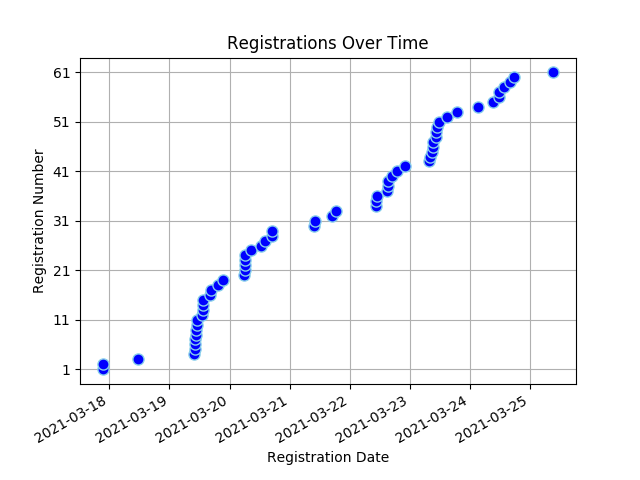
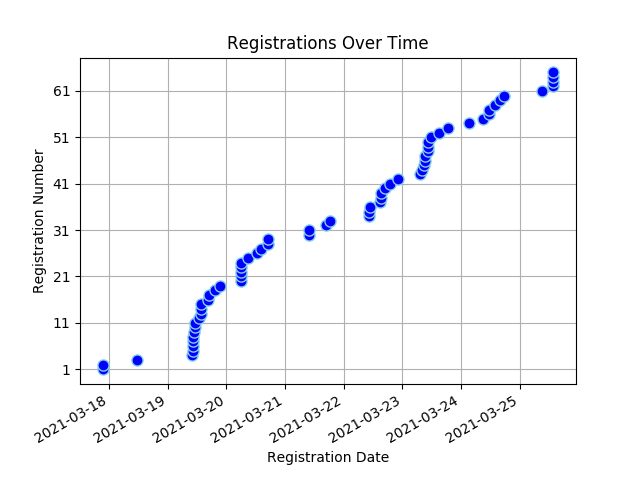
Registree stats backup on Thu 25 Mar 2021 14:51:42 SAST

diff --git a/content/registrees/_index.md b/content/registrees/_index.md
@@ -3,9 +3,9 @@ title: Registration Stats
 draft: false
 ---
 
-<ul><li><strong>Number of Registrees</strong>: 61</li>
+<ul><li><strong>Number of Registrees</strong>: 65</li>
 
-<li><strong>Number of Clubs</strong>: 35</li>
+<li><strong>Number of Clubs</strong>: 36</li>
 
 <li><strong>Club With Most Attendees</strong>: Kuilsriver (5 registrees)</li>
 </ul><h2>Registrees</h2>
@@ -33,6 +33,6 @@ draft: false
         </tr>
     </thead>
     <tbody>
-<tr><td>Valencia Beukes-Williams</td><td>Kuilsriver</td><td>410W</td></tr><tr><td>JOSE BRAGA BORGES</td><td>Malmesbury</td><td>410W</td></tr><tr><td>Herman Cadman</td><td>Stellenbosch</td><td>410W</td></tr><tr><td>Linda Ann Cannone</td><td>Fish Hoek</td><td>410W</td></tr><tr><td>Sue Charles</td><td>Tokai</td><td>410W</td></tr><tr><td>Perry Chetty</td><td>East Coast</td><td>410E</td></tr><tr><td>Esme Cornelius</td><td>Kuilsriver</td><td>410W</td></tr><tr><td>Sharon Cottle</td><td>Groote Schuur</td><td>410E</td></tr><tr><td>Peter Daniel</td><td>Gordons Bay</td><td>410W</td></tr><tr><td>Norma Daniel</td><td>Gordons Bay</td><td>410W</td></tr><tr><td>Engela de Kock</td><td>Swellendam</td><td>410W</td></tr><tr><td>Francois de Kock</td><td>Swellendam</td><td>410W</td></tr><tr><td>ANDRE DE VILLIERS</td><td>Malgas</td><td>410W</td></tr><tr><td>Desiree du Toit</td><td>Ramsgate</td><td>410E</td></tr><tr><td>Charles Flanagan</td><td>Tokai</td><td>410W</td></tr><tr><td>Jules Flanagan</td><td>Tokai</td><td>410W</td></tr><tr><td>Viv Grater</td><td>Sedgefield</td><td>410W</td></tr><tr><td>Dorothy Hess</td><td>Kuilsriver</td><td>410W</td></tr><tr><td>Wendy Higgins</td><td>Wilro Park</td><td>410E</td></tr><tr><td>Jacqui Hocking</td><td>Midrand</td><td>410E</td></tr><tr><td>Cliff Hocking</td><td>Midrand</td><td>410E</td></tr><tr><td>Liz Houston</td><td>Table View</td><td>410W</td></tr><tr><td>John Houston</td><td>Table View</td><td>410W</td></tr><tr><td>WOLSLEY Jacobson</td><td>Cape Town</td><td>410W</td></tr><tr><td>Zwaai Kruger</td><td>Sedgefield</td><td>410W</td></tr><tr><td>Bevil Lakay</td><td>Mitchells Plain</td><td>410W</td></tr><tr><td>Paula Lang</td><td>Gordons Bay</td><td>410W</td></tr><tr><td>Jimmy Lang</td><td>Gordons Bay</td><td>410W</td></tr><tr><td>Sharon Mangwende</td><td>Cape Town</td><td>410E</td></tr><tr><td>Beaulieu Mare</td><td>Benoni Lakes</td><td>410E</td></tr><tr><td>Mark Meltzer</td><td>The Wilds</td><td>410E</td></tr><tr><td>Denis Meyer</td><td>Port Shepstone</td><td>410E</td></tr><tr><td>BERNICE MILLS</td><td>Centurion</td><td>410E</td></tr><tr><td>Patrick Mills</td><td>Centurion</td><td>410E</td></tr><tr><td>Cherie Milosevich</td><td>Milnerton</td><td>410W</td></tr><tr><td>Pieter Nel</td><td>George</td><td>410W</td></tr><tr><td>Tillie Nel</td><td>Eden</td><td>410W</td></tr><tr><td>BRIAN PORTEOUS</td><td>Hibberdene</td><td>410E</td></tr><tr><td>Irene Rugheimer</td><td>Bedfordview</td><td>410E</td></tr><tr><td>Ingrid Russell</td><td>Fish Hoek</td><td>410W</td></tr><tr><td>Francis Searle</td><td>Kouga</td><td>410E</td></tr><tr><td>Gloria Searle</td><td>Kouga</td><td>410E</td></tr><tr><td>Sue Smit</td><td>Centurion</td><td>410E</td></tr><tr><td>Jeff Smith</td><td>Port Shepstone</td><td>410E</td></tr><tr><td>LYN SNYMAN</td><td>Deep South</td><td>410W</td></tr><tr><td>RORY stier</td><td>Deep South</td><td>410W</td></tr><tr><td>Patrick Strauss</td><td>Kuilsriver</td><td>410W</td></tr><tr><td>Lauryn Talbot</td><td>Benoni Lakes</td><td>410E</td></tr><tr><td>Alistair Tuckett</td><td>Roodepoort Clearwater Cyber</td><td>410E</td></tr><tr><td>HILARY LISE VAN BREDA</td><td>Cape Town</td><td>410W</td></tr><tr><td>Marina Van de Merwe</td><td>Malmesbury</td><td>410W</td></tr><tr><td>Neville Van Rensburg</td><td>Moorreesburg</td><td>410W</td></tr><tr><td>Jeannie van Wulven</td><td>Tygerberg Hills</td><td>410W</td></tr><tr><td>Alan van Wulven</td><td>Tygerberg Hills</td><td>410W</td></tr><tr><td>Deon van Wulven</td><td>Tygerberg Hills</td><td>410W</td></tr><tr><td>Kim van Wyk</td><td>North Durban</td><td>410E</td></tr><tr><td>Edith Van Wyk-Nelson</td><td>Kuilsriver</td><td>410W</td></tr><tr><td>Brian von der Decken</td><td>King William's Town</td><td>410E</td></tr><tr><td>Rochelle Vorster</td><td>Sedgefield</td><td>410W</td></tr><tr><td>Allan Watson</td><td>Sea Point</td><td>410W</td></tr><tr><td>Judy Young</td><td>Durbanville</td><td>410W</td></tr>
+<tr><td>Valencia Beukes-Williams</td><td>Kuilsriver</td><td>410W</td></tr><tr><td>JOSE BRAGA BORGES</td><td>Malmesbury</td><td>410W</td></tr><tr><td>Herman Cadman</td><td>Stellenbosch</td><td>410W</td></tr><tr><td>Linda Ann Cannone</td><td>Fish Hoek</td><td>410W</td></tr><tr><td>Sue Charles</td><td>Tokai</td><td>410W</td></tr><tr><td>Perry Chetty</td><td>East Coast</td><td>410E</td></tr><tr><td>Esme Cornelius</td><td>Kuilsriver</td><td>410W</td></tr><tr><td>Sharon Cottle</td><td>Groote Schuur</td><td>410E</td></tr><tr><td>Peter Daniel</td><td>Gordons Bay</td><td>410W</td></tr><tr><td>Norma Daniel</td><td>Gordons Bay</td><td>410W</td></tr><tr><td>Engela de Kock</td><td>Swellendam</td><td>410W</td></tr><tr><td>Francois de Kock</td><td>Swellendam</td><td>410W</td></tr><tr><td>ANDRE DE VILLIERS</td><td>Malgas</td><td>410W</td></tr><tr><td>Desiree du Toit</td><td>Ramsgate</td><td>410E</td></tr><tr><td>Roger Fahrbach</td><td>Windhoek</td><td>410W</td></tr><tr><td>Beate Fahrbach</td><td>Windhoek</td><td>410W</td></tr><tr><td>Charles Flanagan</td><td>Tokai</td><td>410W</td></tr><tr><td>Jules Flanagan</td><td>Tokai</td><td>410W</td></tr><tr><td>Viv Grater</td><td>Sedgefield</td><td>410W</td></tr><tr><td>Dorothy Hess</td><td>Kuilsriver</td><td>410W</td></tr><tr><td>Wendy Higgins</td><td>Wilro Park</td><td>410E</td></tr><tr><td>Jacqui Hocking</td><td>Midrand</td><td>410E</td></tr><tr><td>Cliff Hocking</td><td>Midrand</td><td>410E</td></tr><tr><td>Liz Houston</td><td>Table View</td><td>410W</td></tr><tr><td>John Houston</td><td>Table View</td><td>410W</td></tr><tr><td>WOLSLEY Jacobson</td><td>Cape Town</td><td>410W</td></tr><tr><td>Zwaai Kruger</td><td>Sedgefield</td><td>410W</td></tr><tr><td>Bevil Lakay</td><td>Mitchells Plain</td><td>410W</td></tr><tr><td>Paula Lang</td><td>Gordons Bay</td><td>410W</td></tr><tr><td>Jimmy Lang</td><td>Gordons Bay</td><td>410W</td></tr><tr><td>Sharon Mangwende</td><td>Cape Town</td><td>410E</td></tr><tr><td>Beaulieu Mare</td><td>Benoni Lakes</td><td>410E</td></tr><tr><td>Mark Meltzer</td><td>The Wilds</td><td>410E</td></tr><tr><td>Denis Meyer</td><td>Port Shepstone</td><td>410E</td></tr><tr><td>BERNICE MILLS</td><td>Centurion</td><td>410E</td></tr><tr><td>Patrick Mills</td><td>Centurion</td><td>410E</td></tr><tr><td>Cherie Milosevich</td><td>Milnerton</td><td>410W</td></tr><tr><td>Pieter Nel</td><td>George</td><td>410W</td></tr><tr><td>Tillie Nel</td><td>Eden</td><td>410W</td></tr><tr><td>BRIAN PORTEOUS</td><td>Hibberdene</td><td>410E</td></tr><tr><td>Irene Rugheimer</td><td>Bedfordview</td><td>410E</td></tr><tr><td>Ingrid Russell</td><td>Fish Hoek</td><td>410W</td></tr><tr><td>Francis Searle</td><td>Kouga</td><td>410E</td></tr><tr><td>Gloria Searle</td><td>Kouga</td><td>410E</td></tr><tr><td>Sue Smit</td><td>Centurion</td><td>410E</td></tr><tr><td>Jeff Smith</td><td>Port Shepstone</td><td>410E</td></tr><tr><td>LYN SNYMAN</td><td>Deep South</td><td>410W</td></tr><tr><td>RORY stier</td><td>Deep South</td><td>410W</td></tr><tr><td>Patrick Strauss</td><td>Kuilsriver</td><td>410W</td></tr><tr><td>Lauryn Talbot</td><td>Benoni Lakes</td><td>410E</td></tr><tr><td>Alistair Tuckett</td><td>Roodepoort Clearwater Cyber</td><td>410E</td></tr><tr><td>HILARY LISE VAN BREDA</td><td>Cape Town</td><td>410W</td></tr><tr><td>Marina Van de Merwe</td><td>Malmesbury</td><td>410W</td></tr><tr><td>Neville Van Rensburg</td><td>Moorreesburg</td><td>410W</td></tr><tr><td>Johan van Rensburg</td><td>Windhoek</td><td>410W</td></tr><tr><td>Anne van Rensburg</td><td>Windhoek</td><td>410W</td></tr><tr><td>Jeannie van Wulven</td><td>Tygerberg Hills</td><td>410W</td></tr><tr><td>Alan van Wulven</td><td>Tygerberg Hills</td><td>410W</td></tr><tr><td>Deon van Wulven</td><td>Tygerberg Hills</td><td>410W</td></tr><tr><td>Kim van Wyk</td><td>North Durban</td><td>410E</td></tr><tr><td>Edith Van Wyk-Nelson</td><td>Kuilsriver</td><td>410W</td></tr><tr><td>Brian von der Decken</td><td>King William's Town</td><td>410E</td></tr><tr><td>Rochelle Vorster</td><td>Sedgefield</td><td>410W</td></tr><tr><td>Allan Watson</td><td>Sea Point</td><td>410W</td></tr><tr><td>Judy Young</td><td>Durbanville</td><td>410W</td></tr>
 </tbody>
 </table>

diff --git a/content/full_stats/_index.md b/content/full_stats/_index.md
@@ -16,17 +16,17 @@ draft: false
 </head>
 <body>
 <h1 style="color: #000000;">Full Registration Stats</h1>
-<ul><li><strong>Number of Registrees</strong>: 61</li>
-<li><strong>Number of Clubs</strong>: 35</li>
+<ul><li><strong>Number of Registrees</strong>: 65</li>
+<li><strong>Number of Clubs</strong>: 36</li>
 <li><strong>Club With Most Attendees</strong>: Kuilsriver (5 registrees)</li>
 
-<li><strong>Number of District 410W Convention Attendees</strong>: 39</li>
-<li><strong>Number of District 410W Convention Voters</strong>: 23</li>
+<li><strong>Number of District 410W Convention Attendees</strong>: 43</li>
+<li><strong>Number of District 410W Convention Voters</strong>: 24</li>
 <li><strong>Number of District 410E Convention Attendees</strong>: 22</li>
 <li><strong>Number of District 410E Convention Voters</strong>: 12</li>
 
-<li><strong>Number of MD410 Convention Attendees</strong>: 57</li>
-<li><strong>Number of MD410 Convention Voters</strong>: 33</li>
+<li><strong>Number of MD410 Convention Attendees</strong>: 59</li>
+<li><strong>Number of MD410 Convention Voters</strong>: 34</li>
 
 </ul>
 <h2>Registrees</h2>
@@ -212,6 +212,28 @@ draft: false
 <td style="background-color: lightgreen">Yes</td>
 <td style="background-color: lightgreen">Yes</td>
 <td>No</td>
+</tr>
+
+    
+<td>66</td>
+<td>Roger Fahrbach</td>
+<td>Windhoek</td>
+<td>410W</td>
+<td>No</td>
+<td style="background-color: lightgreen">Yes</td>
+<td>No</td>
+<td style="background-color: lightgreen">Yes</td>
+</tr>
+
+    
+<td>67</td>
+<td>Beate Fahrbach</td>
+<td>Windhoek</td>
+<td>410W</td>
+<td>No</td>
+<td style="background-color: lightgreen">Yes</td>
+<td>No</td>
+<td style="background-color: lightgreen">Yes</td>
 </tr>
 
     
@@ -627,6 +649,28 @@ draft: false
 <td>Moorreesburg</td>
 <td>410W</td>
 <td style="background-color: lightgreen">Yes</td>
+<td style="background-color: lightgreen">Yes</td>
+<td style="background-color: lightgreen">Yes</td>
+<td>No</td>
+</tr>
+
+    
+<td>64</td>
+<td>Johan van Rensburg</td>
+<td>Windhoek</td>
+<td>410W</td>
+<td style="background-color: lightgreen">Yes</td>
+<td style="background-color: lightgreen">Yes</td>
+<td style="background-color: lightgreen">Yes</td>
+<td>No</td>
+</tr>
+
+    
+<td>65</td>
+<td>Anne van Rensburg</td>
+<td>Windhoek</td>
+<td>410W</td>
+<td>No</td>
 <td style="background-color: lightgreen">Yes</td>
 <td style="background-color: lightgreen">Yes</td>
 <td>No</td>
